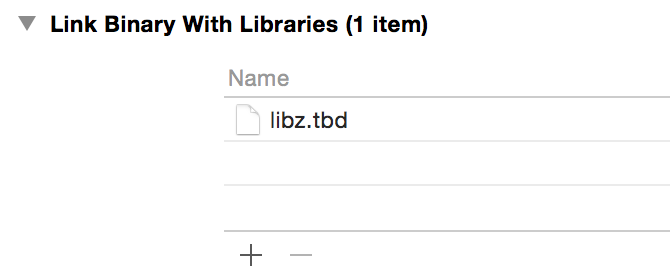
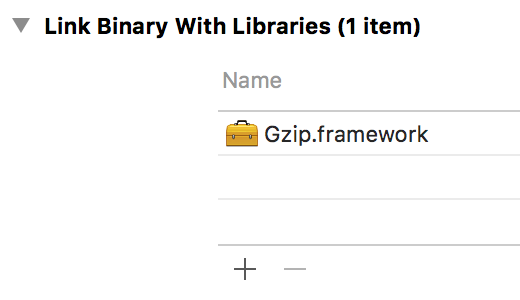
Update README

diff --git a/README.md b/README.md
@@ -1,15 +1,15 @@
 
-Data+Gzip.swift
+GzipSwift
 ========================
 
 [![macOS](http://img.shields.io/badge/macOS-10.9%2B-blue.svg)]()
 [![iOS](http://img.shields.io/badge/iOS-8.0%2B-blue.svg)]()
 [![Swift](http://img.shields.io/badge/Swift-3.0-blue.svg)]()
-[![Carthage compatible](https://img.shields.io/badge/Carthage-compatible.svg)](https://github.com/Carthage/Carthage)
+[![Carthage compatible](http://img.shields.io/badge/Carthage-compatible.svg)](https://github.com/Carthage/Carthage)
 [![Build Status](http://img.shields.io/travis/1024jp/NSData-GZIP/master.svg?style=flat)](https://travis-ci.org/1024jp/NSData-GZIP)
 [![License](https://img.shields.io/github/license/1024jp/NSData-GZIP.svg)](https://github.com/1024jp/NSData-GZIP/blob/develop/LICENSE)
 
-__Data+Gzip.swift__ is an extension of Data written in Swift 3.0. It enables compress/decompress gzip using zlib.
+__GzipSwift__ is an extension of Data written in Swift 3.0. It enables compress/decompress gzip using zlib.
 
 - __Requirements__: OS X 10.9 / iOS 8 or later
 
@@ -38,12 +38,9 @@ print(compressedData.isGgipped)
 
 ## Installation
 
-1. Add `Data+Gzip.swift` file to your project.
-2. Add `zlib/` directory to your project.
-3. In *Build Phases*, add `libz.tbd` library to your project.
-    ![screenshot](Documentation/binary_link@2x.png)
-4. In *Build Settings* > *Swift Compiler - Search Paths*, Add path to `zlib/` to Import Paths (`SWIFT_INCLUDE_PATHS`).
-    ![screenshot](Documentation/search_paths@2x.png)
+1. Build Gzip framework.
+3. In *Build Phases*, add `Gzip.framework` library to your project.
+    <img src="Documentation/binary_link@2x.png" height="150"/>
 5. `import Gzip` in your Swift file.
 6. Use in your code.
 
@@ -52,4 +49,4 @@ print(compressedData.isGgipped)
 
 © 2014-2016 1024jp
 
-Data+Gzip.swift is distributed under the terms of the __MIT License__. See [LISENCE](LISENCE) for details.
+GzipSwift is distributed under the terms of the __MIT License__. See [LISENCE](LISENCE) for details.
